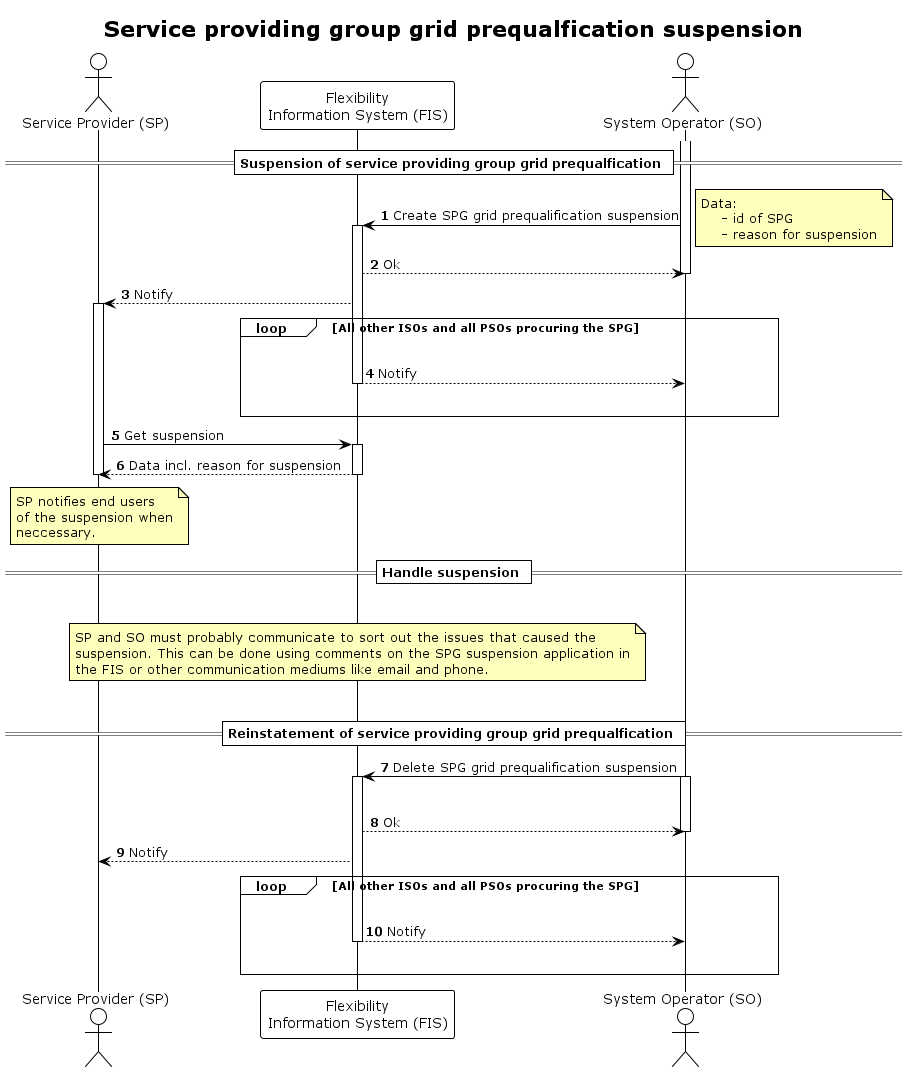
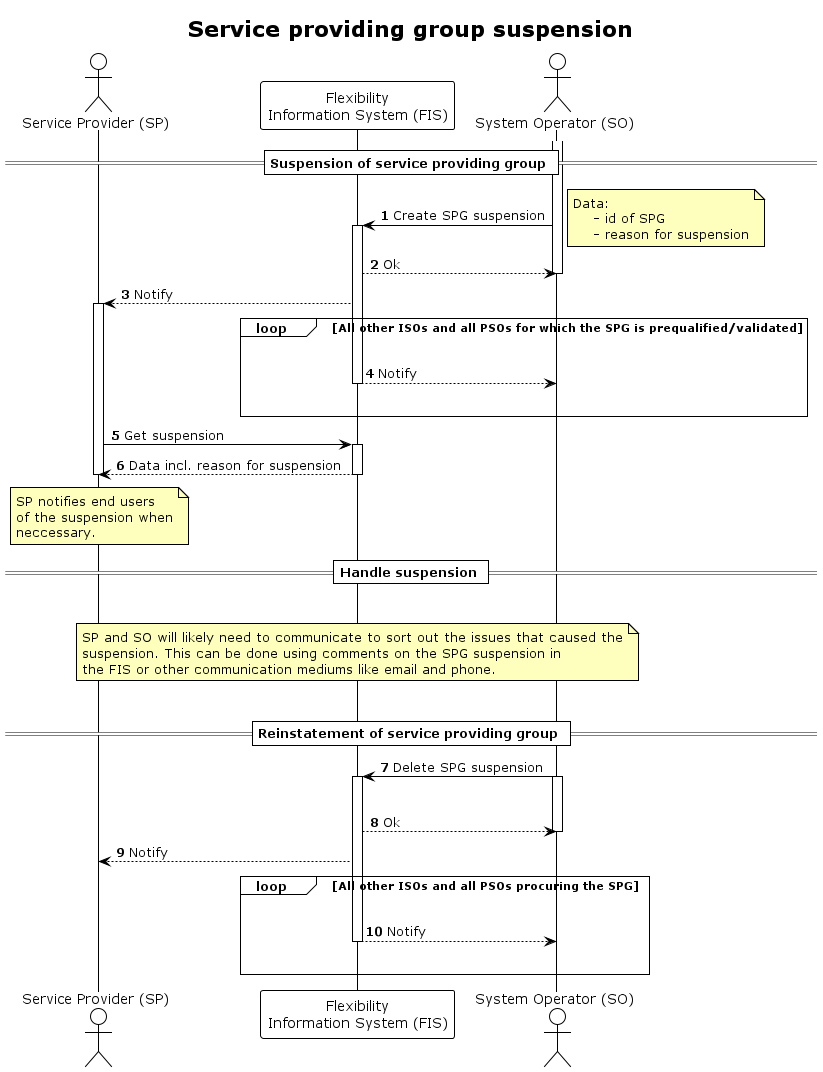
Reviewed comments ++
Reviewed the comments from the draft pull request.

Now, I have removed "grid prequalification" so that it is more standardized to "SPG suspension". The grid prequalification is on the other hand mentioned in both the reasons for suspension.

diff --git a/docs/processes/service-providing-group-suspension.md b/docs/processes/service-providing-group-suspension.md
@@ -1,30 +1,31 @@
 # Service providing group suspension
 
-This process is used to [suspend](../concepts/suspension.md) the service providing
- groups grid prequalification temporarily.
+This process is used to [suspend](../concepts/suspension.md) the service
+providing group (SPG) temporarily.
 The suspension is done by an impacted system operator and is registered in the
-flexibility information system (FIS) by creating an SPG grid prequalification suspension
-By registering it in the FIS, both the service provider and other relevant
+flexibility information system (FIS) by creating a SPG suspension.
+By registering it in the FIS, both the service provider, relevant
 procuring and impacted system operators will be made aware of the suspension.
 
-The suspension is valid for the following combination.
+The suspension is valid for the following combination:
 
+* `service providing group`- the SPG that is suspended
 * `service provider` - the supplier of the SPG
 * `impacted system operator`- the one that suspends
-* `grid prequalification`- the grid prequalification of the SPG that is suspended
 
 All procuring system operators will be affected by the suspension as the SPG
-will no longer be approved. Procuring system operators and impacted system operators
- will receive notification of the suspension.
+will no longer be approved to deliver services. Procuring system operators and
+impacted system operators will receive notification of the suspension.
 
-The system operator must include the reason for suspension when suspending. The
-reason for suspension is a predefined list. There are two reasons for that. The
-first is that the ISO is only allowed to suspend for valid reasons. The other is
-that it allows for a greater degree of automation in the process.
+The impacted system operator must include the reason for suspension when
+suspending. The reason for suspension is a predefined list. There are two
+reasons for that. The first is that the ISO is only allowed to suspend for
+valid reasons. The other is that it allows for a greater degree of automation
+in the process.
 
 | Reason                   | Description                                                                                                                                                                                                                                                           |
 |--------------------------|-----------------------------------------------------------------------------------------------------------------------------------------------------------------------------------------------------------------------------------------------------------------------|
-| `breach_of_conditions`   | The status is _conditionally_approved_ and SPG repeatedly breaches the conditions.                                                                                                                                                                                    |
+| `breach_of_conditions`   | The grid prequalification status is _conditionally_approved_ and SPG repeatedly breaches the conditions.                                                                                                                                                                                    |
 | `significant_alteration` | In cases where the SPG is altered significantly and ISO needs time to consider if they need to do a new grid prequalification or use other tools. Suspension is _not the primary tool_ that should be used in this case. Temporary limits should be used when possible. |
 | `other`                  | Should generally _not_ be used, but can in cases where ISO has a valid reason for suspension that is outside the other defined reasons.                                                                                                                               |
 
@@ -34,19 +35,19 @@ require a warning in advance of the suspension - and how that warning is
 conveyed - must be specified in the terms and conditions of the product type or
 service.
 
-The process also includes reinstatement of the service provider qualification,
+The process also includes reinstatement of the service providing group grid prequalification,
 i.e. removing the suspension.
 
 ## Prerequisites
 
 * The issue that triggers the suspension is temporary.
-* Adding and lifting a suspension is instantaneus. There is no need to
+* Adding and lifting a suspension is instantaneous. There is no need to
   communicate suspension or reinstatement ahead in time.
 * End users should not be notified about or view the suspension in FIS. Service
   providers will notify end users when necessary and dependent on the agreement
   between them and the end user.
-* The suspension of the SPG grid prequalification will impact the [ready for market](https://elhub.github.io/flex-information-system/concepts/ready-for-market/)
-  status for an SPG.
+* The suspension of the SPG will impact the [ready for market](https://elhub.github.io/flex-information-system/concepts/ready-for-market/)
+  status for a SPG.
 
 ## Sequence
 
